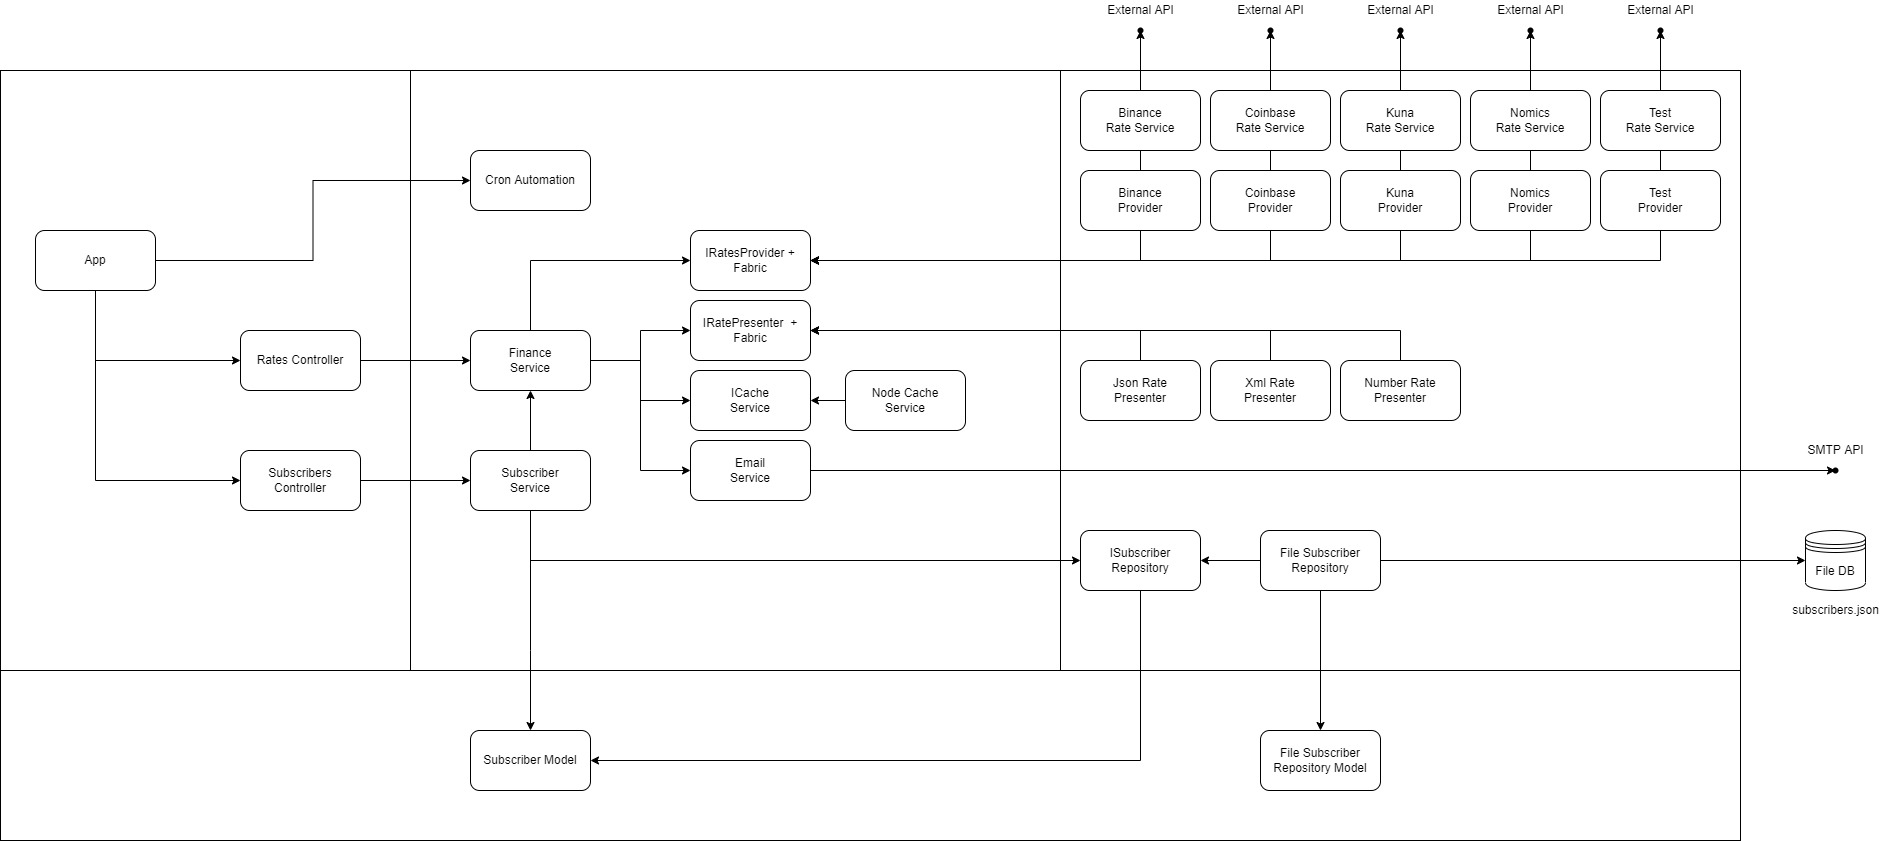
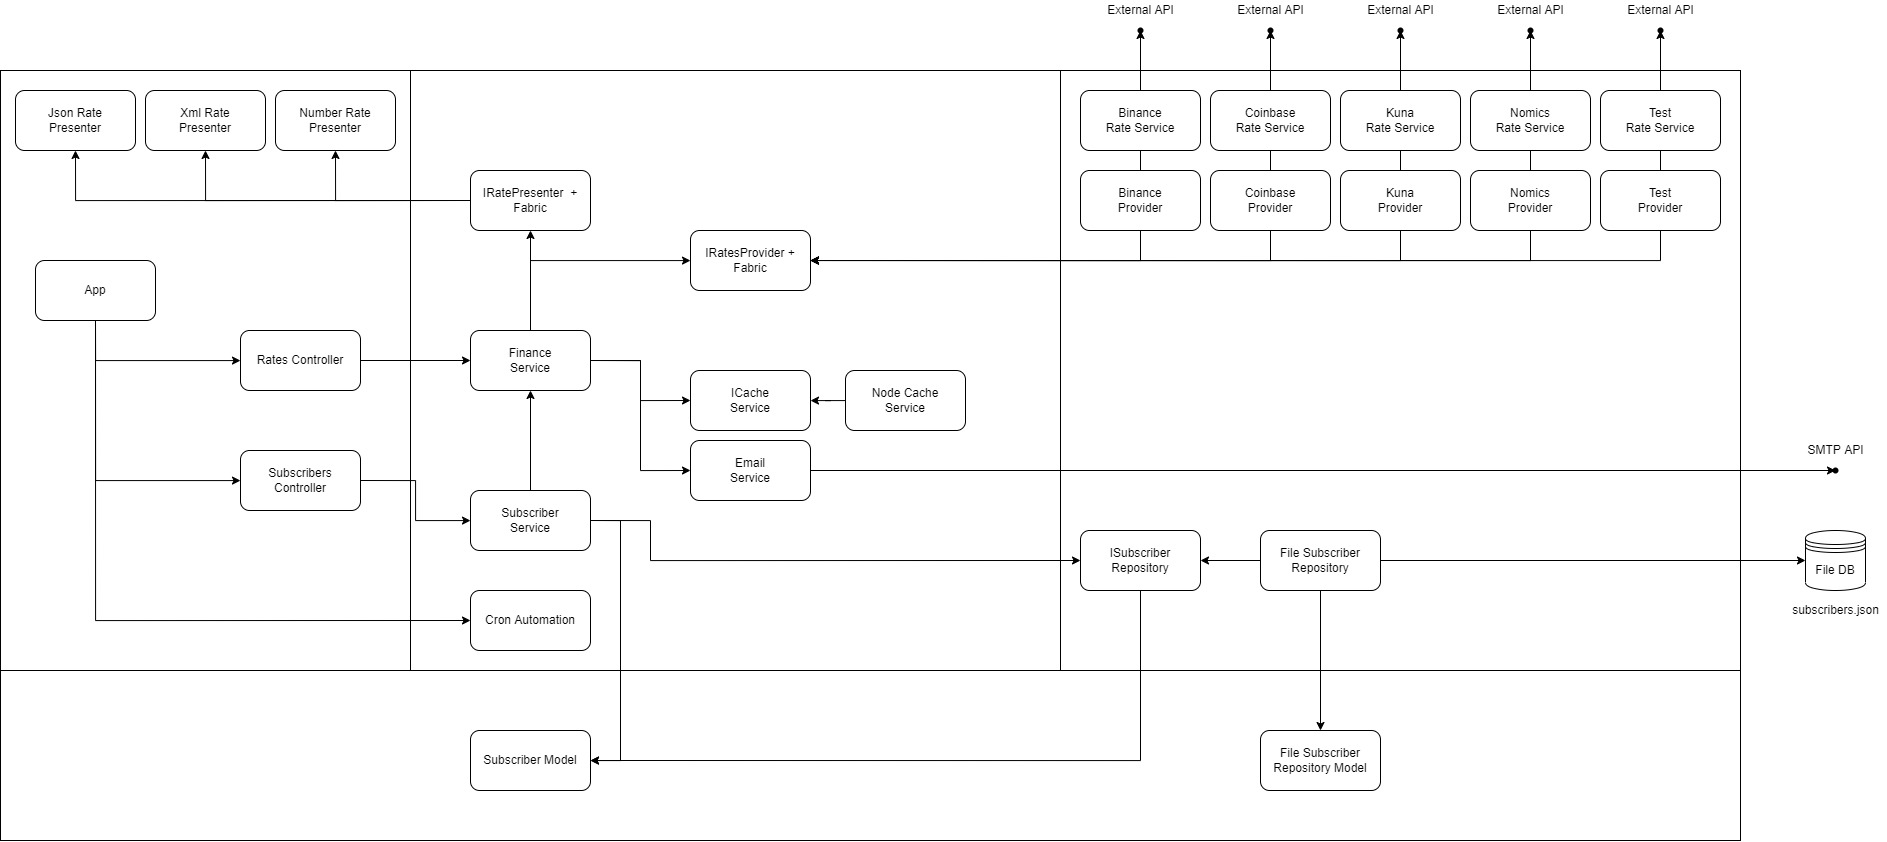
[hw5] Correction 1

diff --git a/test/integration/services/rates/finance-service.test.ts b/test/integration/services/rates/finance-service.test.ts
@@ -3,7 +3,7 @@ import FinanceService from '../../../../src/services/rates/finance-service';
 import { providersKeysDict } from '../../../../src/services/rates/const/providers.const';
 import { container } from '../../../../src/inversify.config';
 import { DIServices } from '../../../../src/DITypes';
-import { presenterKeysDict } from '../../../../src/services/presenters/const/presenter.const';
+import { presenterKeysDict } from '../../../../src/presenter/const/presenter.const';
 
 describe('FinanceService', function () {
 	describe('#getBtcUahRateAsync', function () {
@@ -11,7 +11,7 @@ describe('FinanceService', function () {
 			const financeService: FinanceService = container.get(DIServices.FinanceService);
 			financeService.autoChangeUnavailableProviders = false;
 
-			const result = await financeService.getBtcUahRateAsync(presenterKeysDict.number);
+			const result = await financeService.getBtcUahRateAsync(presenterKeysDict.string);
 
 			if (!result)
 				fail(
@@ -24,7 +24,7 @@ describe('FinanceService', function () {
 			financeService.setActiveProviderByKey(providersKeysDict.test);
 			process.env.TEST_PROVIDER_FAIL = String(true);
 
-			const result = await financeService.getBtcUahRateAsync(presenterKeysDict.number);
+			const result = await financeService.getBtcUahRateAsync(presenterKeysDict.string);
 
 			if (!result)
 				fail(

diff --git a/src/services/subscriber/subscriber-service.ts b/src/services/subscriber/subscriber-service.ts
@@ -6,7 +6,7 @@ import { inject, injectable } from 'inversify';
 import ISubscriberRepository from '../../repository/subscriber/interfaces/interface.subscriber.repository';
 import { DIRepositories, DIServices } from '../../DITypes';
 import FinanceService from '../rates/finance-service';
-import { presenterKeysDict } from '../presenters/const/presenter.const';
+import { presenterKeysDict } from '../../presenter/const/presenter.const';
 const log = logFab('SubscribersService');
 
 @injectable()
@@ -40,7 +40,7 @@ class SubscribersService {
 	): Promise<SubscriberMailResultResponse[] | undefined> {
 		const receiversEmail: string[] = [];
 		const resultArray: SubscriberMailResultResponse[] = [];
-		const actualRate = await this._financeService.getBtcUahRateAsync(presenterKeysDict.number);
+		const actualRate = await this._financeService.getBtcUahRateAsync(presenterKeysDict.string);
 		if (!actualRate) {
 			log.error(`Помилка отримання курсу! Відправка пошти зупинена.`);
 			return;

diff --git a/src/presenter/rate-presenter.fabric.ts b/src/presenter/rate-presenter.fabric.ts
@@ -1,0 +1,19 @@
+import logFab from '../services/logger';
+import { injectable } from 'inversify';
+import IRatePresenter from './interfaces/interface.rate-presenter';
+import { presenterClassesDict } from './const/presenter.const';
+import JsonRatePresenter from './rate-presenters/json.rate-presenter';
+const log = logFab('RatePresenterFabric');
+
+@injectable()
+class RatePresenterFabric {
+	public getPresenterByKey(key: string): IRatePresenter {
+		const presenterInstance = new (presenterClassesDict[
+			key as keyof typeof presenterClassesDict
+		] ?? JsonRatePresenter)();
+		log.info(`Set presenter with key "${key}"`);
+		return presenterInstance;
+	}
+}
+
+export default RatePresenterFabric;

diff --git a/src/inversify.config.ts b/src/inversify.config.ts
@@ -8,7 +8,7 @@ import ISubscriberRepository from './repository/subscriber/interfaces/interface.
 import FileSubscriberRepository from './repository/subscriber/file.subscriber.repository';
 import FinanceProviderFabric from './services/rates/finance-provider.fabric';
 import EmailService from './services/email/email-service';
-import RatePresenterFabric from './services/presenters/rate-presenter.fabric';
+import RatePresenterFabric from './presenter/rate-presenter.fabric';
 
 const container = new Container();
 container.bind<ICacheService>(DIServices.CacheService).to(NodeCacheService).inSingletonScope();

diff --git a/src/services/rates/finance-service.ts b/src/services/rates/finance-service.ts
@@ -6,8 +6,8 @@ import { DIServices } from '../../DITypes';
 import FinanceProviderFabric from './finance-provider.fabric';
 import 'dotenv/config';
 import ICacheService from '../cache/interfaces/interface.cache-service';
-import { presenterKeysDict } from '../presenters/const/presenter.const';
-import RatePresenterFabric from '../presenters/rate-presenter.fabric';
+import { presenterKeysDict } from '../../presenter/const/presenter.const';
+import RatePresenterFabric from '../../presenter/rate-presenter.fabric';
 const log = logFab('FinanceService');
 
 @injectable()

diff --git a/src/presenter/const/presenter.const.ts b/src/presenter/const/presenter.const.ts
@@ -1,0 +1,15 @@
+import JsonRatePresenter from '../rate-presenters/json.rate-presenter';
+import XmlRatePresenter from '../rate-presenters/xml.rate-presenter';
+import StringRatePresenter from '../rate-presenters/string.rate-presenter';
+
+export const presenterKeysDict = {
+	json: 'json',
+	xml: 'xml',
+	string: 'string',
+};
+
+export const presenterClassesDict = {
+	json: JsonRatePresenter,
+	xml: XmlRatePresenter,
+	string: StringRatePresenter,
+};

diff --git a/src/presenter/rate-presenters/string.rate-presenter.ts b/src/presenter/rate-presenters/string.rate-presenter.ts
@@ -2,10 +2,10 @@ import IRatePresenter from '../interfaces/interface.rate-presenter';
 import { injectable } from 'inversify';
 
 @injectable()
-class NumberRatePresenter implements IRatePresenter {
+class StringRatePresenter implements IRatePresenter {
 	public presentRateExchange(from: string, to: string, rate: number): string {
 		return rate.toString();
 	}
 }
 
-export default NumberRatePresenter;
+export default StringRatePresenter;

diff --git a/src/presenter/rate-presenters/xml.rate-presenter.ts b/src/presenter/rate-presenters/xml.rate-presenter.ts
@@ -1,5 +1,5 @@
 import IRatePresenter from '../interfaces/interface.rate-presenter';
-import RatePresenterModel from '../../../models/rates/presenter/rate-presenter.model';
+import RatePresenterModel from '../../models/rates/presenter/rate-presenter.model';
 import { injectable } from 'inversify';
 import 'x2js';
 import X2JS from 'x2js';

diff --git a/src/presenter/rate-presenters/json.rate-presenter.ts b/src/presenter/rate-presenters/json.rate-presenter.ts
@@ -1,5 +1,5 @@
 import IRatePresenter from '../interfaces/interface.rate-presenter';
-import RatePresenterModel from '../../../models/rates/presenter/rate-presenter.model';
+import RatePresenterModel from '../../models/rates/presenter/rate-presenter.model';
 import { injectable } from 'inversify';
 
 @injectable()
